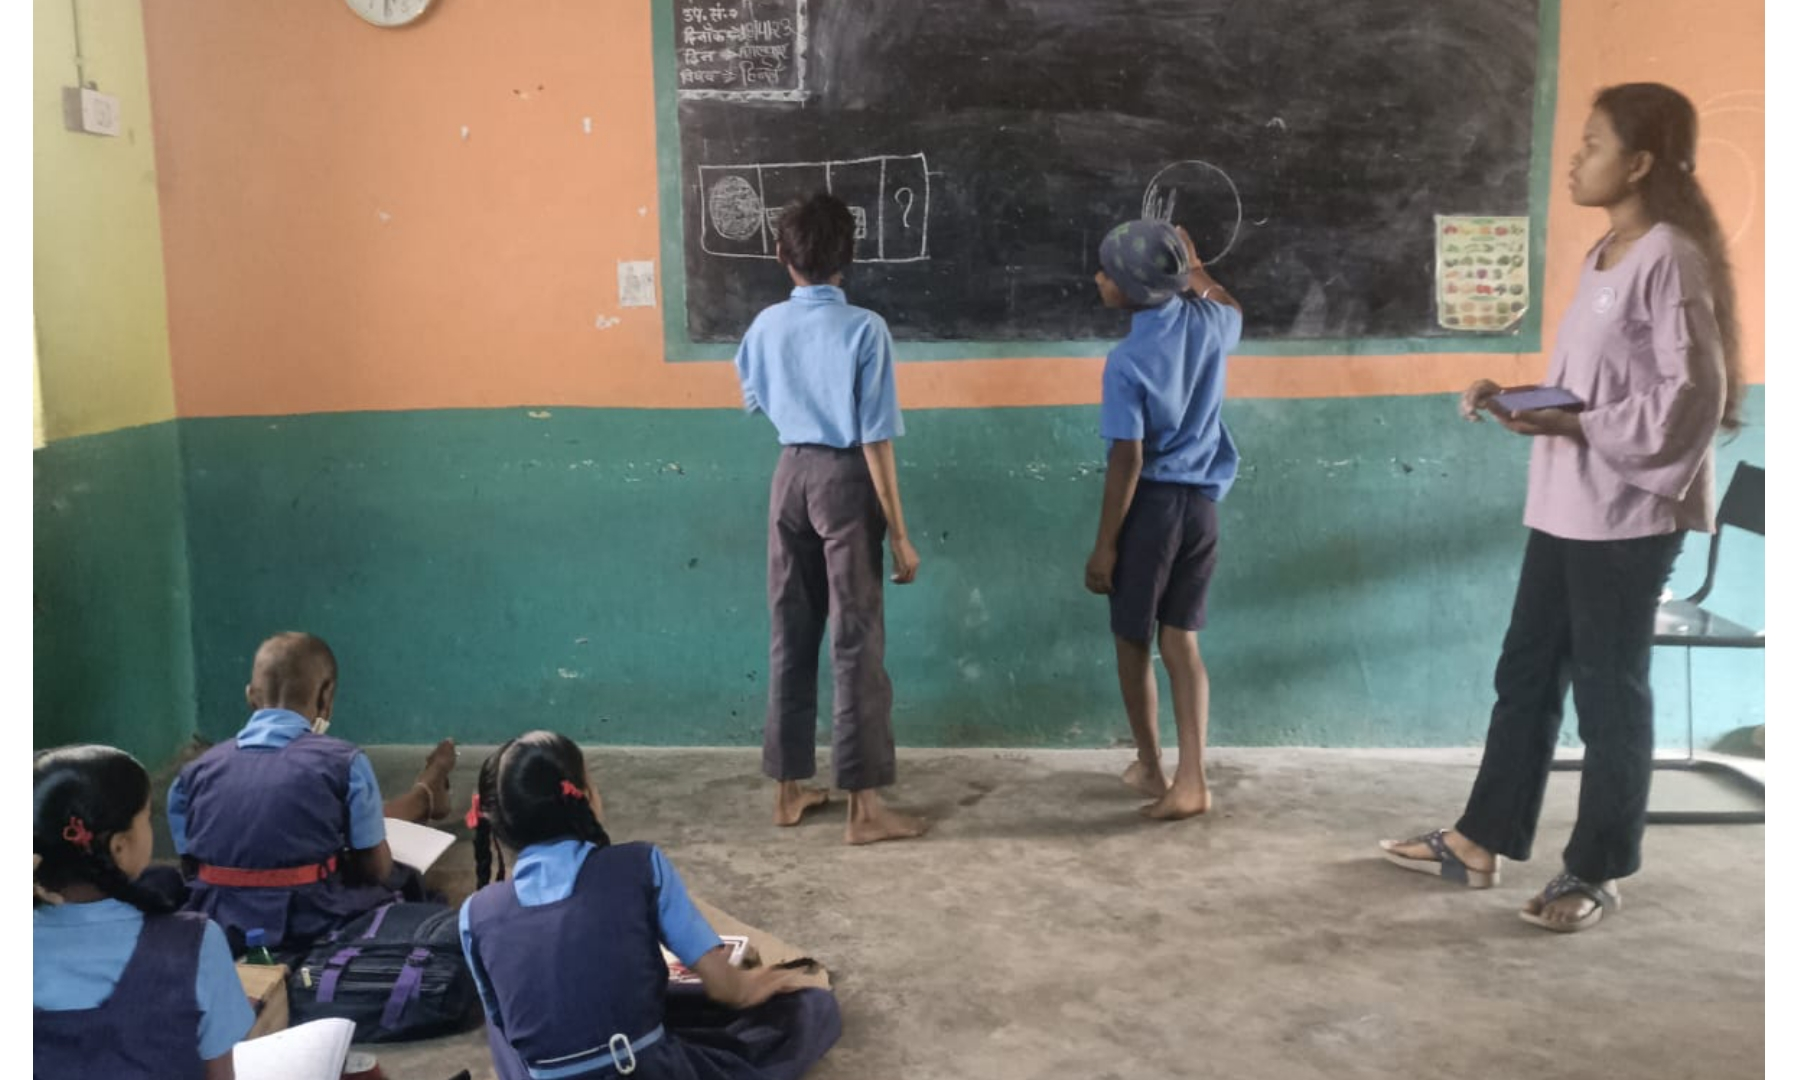
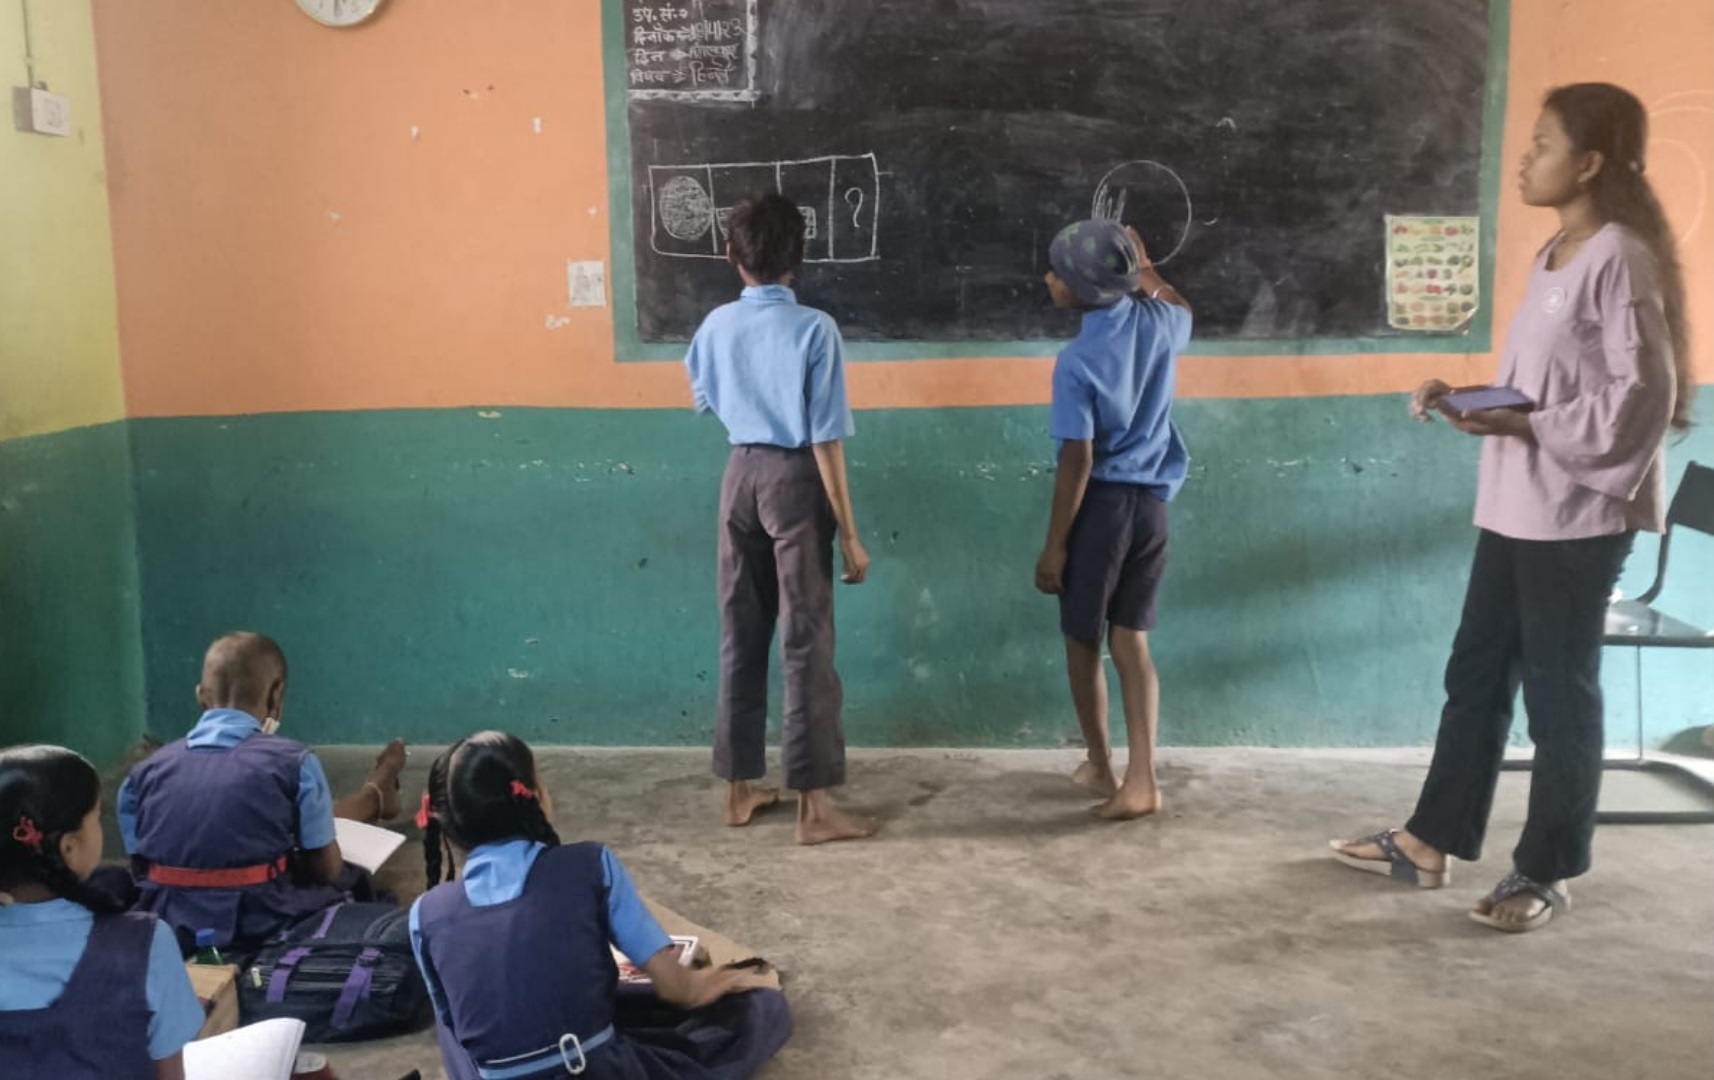
some more changes

diff --git a/index.html b/index.html
@@ -270,7 +270,7 @@
 			  <div class="flex flex-wrap md:-m-2 -m-1">
 				<div class="flex flex-wrap w-1/2">
 				  <div class="md:p-2 p-1 w-1/2">
-					<img alt="gallery" class="w-full object-cover h-full object-center block" src="img/01 (3).jpg">
+					<img alt="gallery" class="w-full object-cover h-full object-center block" src="img/01 (6).jpg">
 				  </div>
 				  <div class="md:p-2 p-1 w-1/2">
 					<img alt="gallery" class="w-full object-cover h-full object-center block" src="img/01 (2).jpg">
